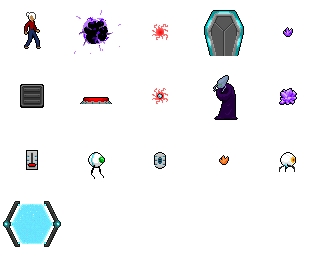
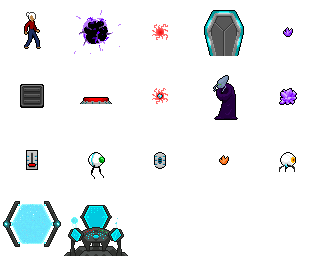
Add mainframe to Finale

Changed region(s): [[0.1875, 0.7812, 0.4062, 1.0]]

diff --git a/map-src/objects.tsx b/map-src/objects.tsx
@@ -81,4 +81,9 @@
    <property name="type" value="Screen"/>
   </properties>
  </tile>
+ <tile id="16">
+  <properties>
+   <property name="type" value="Mainframe"/>
+  </properties>
+ </tile>
 </tileset>

diff --git a/src/com/megahard/gravity/objects/Mainframe.java b/src/com/megahard/gravity/objects/Mainframe.java
@@ -1,0 +1,15 @@
+package com.megahard.gravity.objects;
+
+import com.megahard.gravity.engine.GameContext;
+import com.megahard.gravity.engine.base.GameObject;
+
+public class Mainframe extends GameObject {
+
+	public Mainframe(GameContext game, String spriteName) {
+		super(game, "mainframe");
+		fixed = true;
+		
+		zIndex = 120;
+	}
+
+}

diff --git a/src/com/megahard/gravity/objects/Screen.java b/src/com/megahard/gravity/objects/Screen.java
@@ -8,6 +8,8 @@ public class Screen extends GameObject {
 	public Screen(GameContext game) {
 		super(game, "screen");
 		fixed = true;
+		
+		zIndex = 130;
 	}
 
 	@Override
